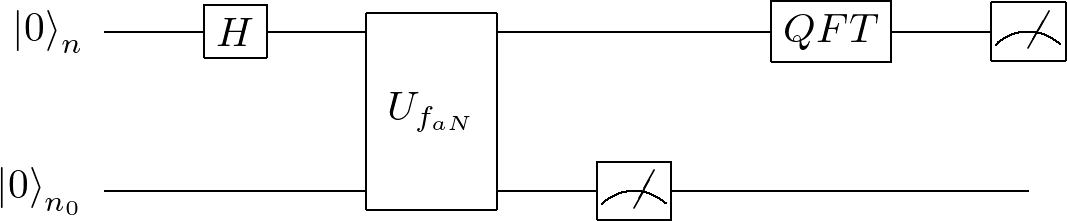
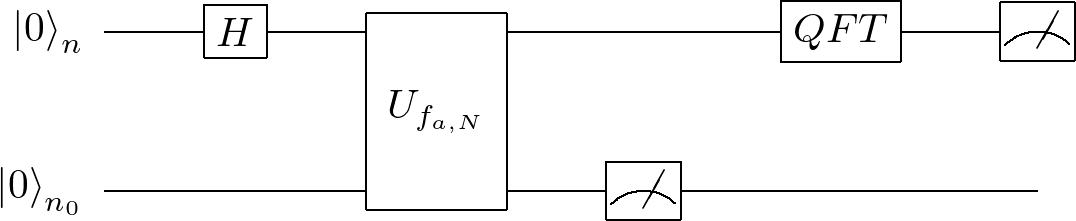
update

diff --git a/images/shor_alg_circuit.tex b/images/shor_alg_circuit.tex
@@ -3,7 +3,7 @@
 \usepackage{braket}
 \begin{document}
 \Qcircuit {
-    \lstick{\ket{0}_n}      & \gate{H} & \multigate{1}{U_{f_{aN}}}   & \qw    & \gate{QFT} & \meter   \\
-    \lstick{\ket{0}_{n_0}}  & \qw      & \ghost{U_{f_{aN}}}          & \meter & \qw        & \qw      \\
+    \lstick{\ket{0}_n}      & \gate{H} & \multigate{1}{U_{f_{a,N}}}   & \qw    & \gate{QFT} & \meter   \\
+    \lstick{\ket{0}_{n_0}}  & \qw      & \ghost{U_{f_{a,N}}}          & \meter & \qw        & \qw      \\
 }
 \end{document}
